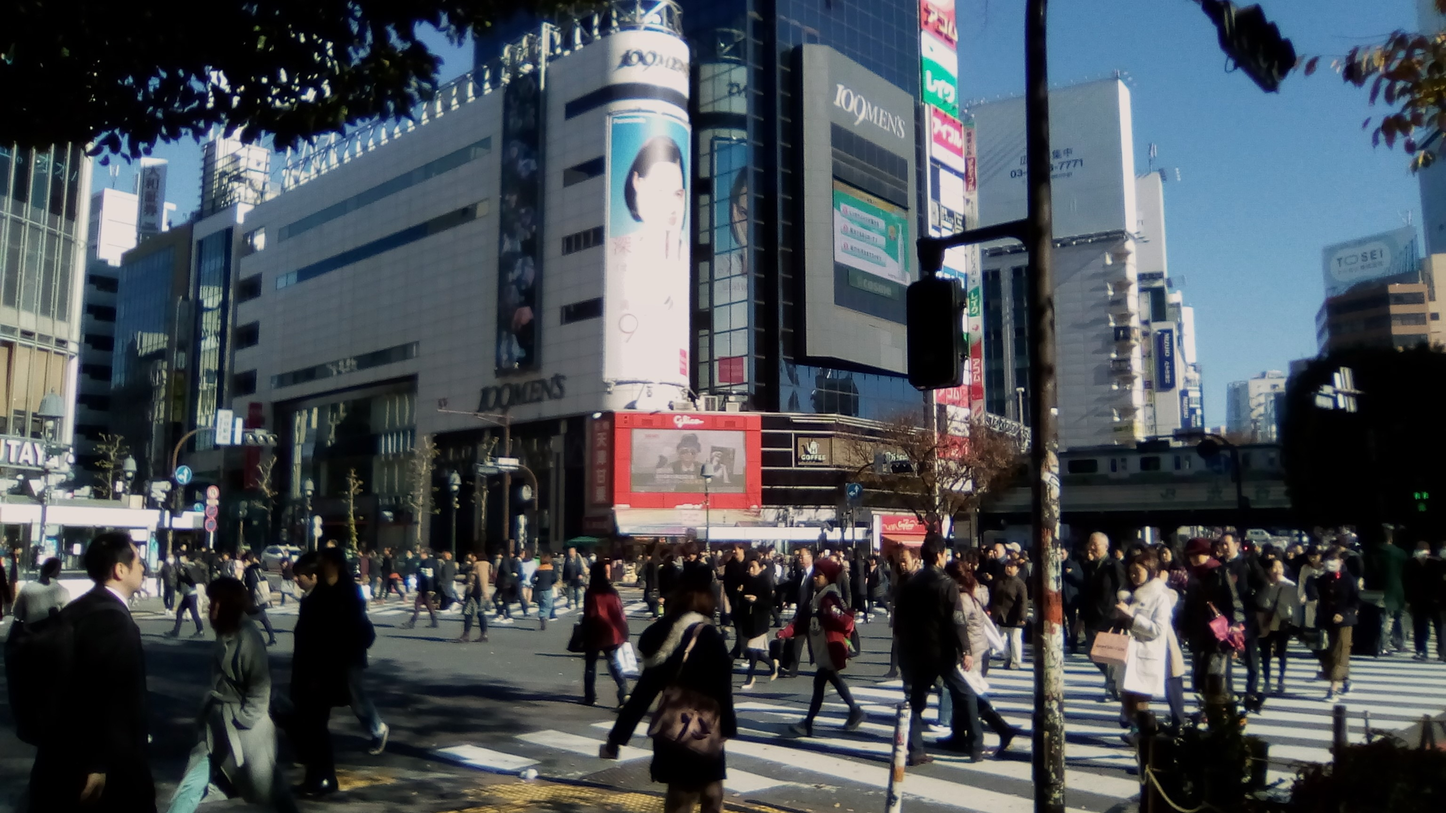
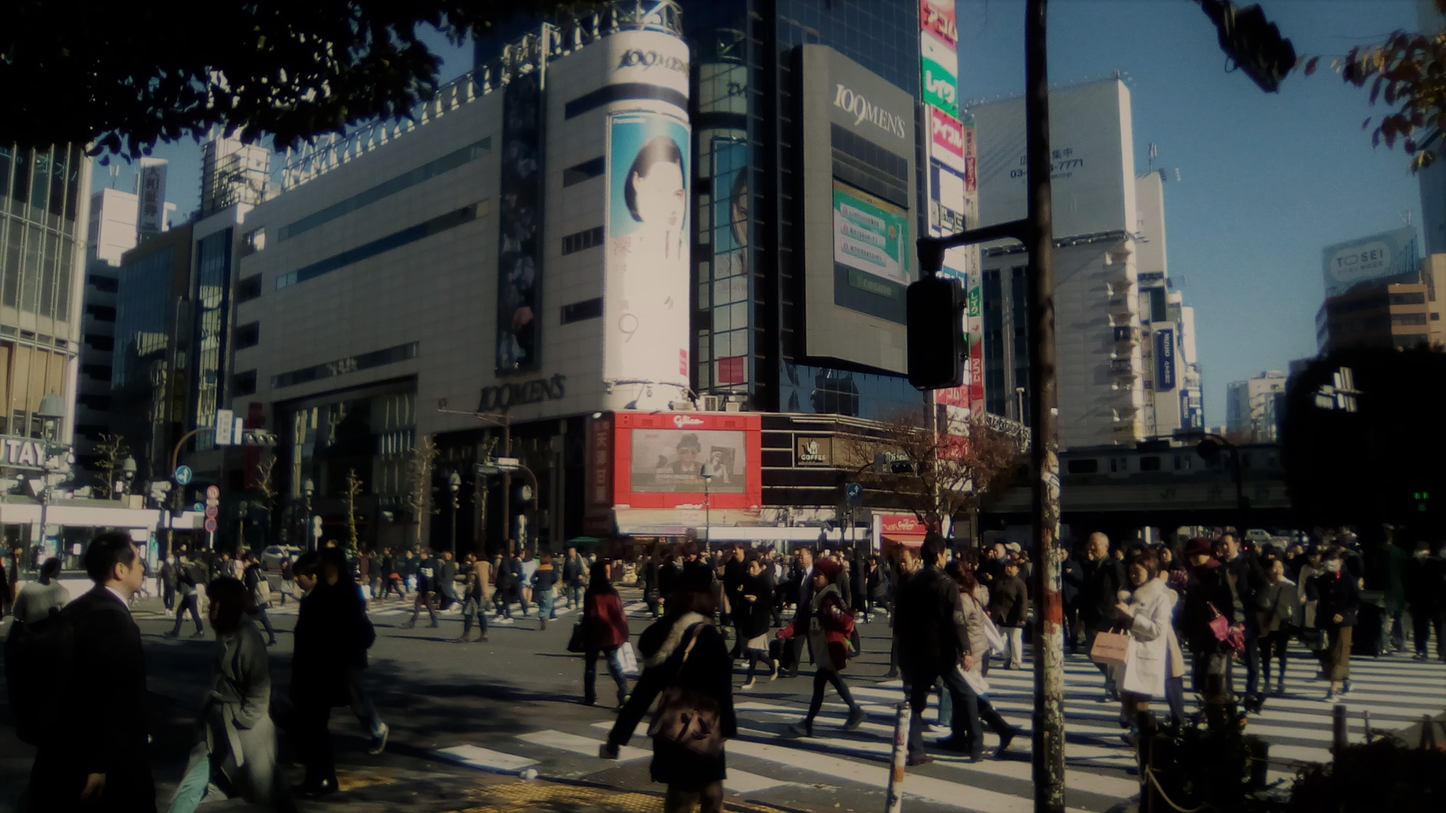
added film strip

diff --git a/src/pages/services.js b/src/pages/services.js
@@ -1,64 +1,73 @@
 import React from "react"
 import { graphql } from "gatsby"
 import { Row, Col } from "reactstrap"
+import AniLink from 'gatsby-plugin-transition-link/AniLink'
 import Layout from "../components/layout"
 import SEO from "../components/seo"
 import Img from "gatsby-image"
 import "./index.css"
 
-const ServicesPage = ({ data }) => (
+const ServicesPage = ({ data }) => {
+  const imgArray = data.allFile.edges
+  console.log("data: ", imgArray)
+  return (
   <div style={{width:`100%`}}>
     <Layout>
-      <h1 className="primary-color text-center">Services</h1>
-      <Row className="no-gutters align-items-center">
-        <Col xs="12" sm="6" md="7" lg="8"className="primary-color pr-sm-2">
-          <h2>Adventure Follows</h2>
-          <h4>$149/hour or $499/day</h4>
-          <p>Do you go on awesome adventures and need a photographer? Connor offers daily and hourly rates to acompany you as a photographer on your next adventure.</p>
-          <ul>
-            <li>Hour by Hour Rates</li>
-            <li>Overnight Trips</li>
-            <li>Ski Follows</li>
-          </ul>
+      <h1 className="primary-color text-center mb-5">Services</h1>
+      <Row className="no-gutters service-container">
+        <Col xs="12" className="pb-2">
+        <h3>Adventure Photography</h3>
         </Col>
-        <Col xs="12" sm="6" md="5" lg="4" className="align-items-center" style={{width:`40%`}}>
-          <Img fluid={data.file.childImageSharp.fluid} style={{}}/>
-        </Col>
+      <Col xs="12" sm="6" md="7" lg="8"className="primary-color pr-sm-2">
+        <strong >Capture Your Next Adventure</strong><br/>
+        <p style={{color:`white`}}> 
+          Are you wanting to capture and share the experience from your next big adventure?
+          Connor is a proffesional photographer who lives for adventure and would love to accompany you.
+          From below sea level to the highest peaks, on skis or on a belay, Connor can be at your side capturing those once in a lifetime
+          moments of triumph.
+        </p>
+      </Col>
+      <Col xs="12" sm="6" md="5" lg="4" className="align-self-center">
+      <ul style={{color:`white`}}>
+          <li style={{color:`white`}}>Day and Overnight Trips</li>
+          <li style={{color:`white`}}>Hourly and Daily Rates</li>
+          <li style={{color:`white`}}>Foreign or Domestic</li>
+          <li style={{color:`white`}}>Marine, Desert, Forest, or Alpine</li>
+          <li style={{color:`white`}}>$99/hour, 8 hour max billing</li>
+        </ul>
+      </Col>
+        
       </Row>
-
-      <div className="line-divider"></div>
-
-      <Row className="no-gutters align-items-center">
-        <Col xs="12" sm="6" md="7" lg="8"className="primary-color pr-sm-2">
-          <h2>Adventure Follows</h2>
-          <h4>$149/hour or $499/day</h4>
-          <p>Do you go on awesome adventures and need a photographer? Connor offers daily and hourly rates to acompany you as a photographer on your next adventure.</p>
-          <ul>
-            <li>Hour by Hour Rates</li>
-            <li>Overnight Trips</li>
-            <li>Ski Follows</li>
-          </ul>
-        </Col>
-        <Col xs="12" sm="6" md="5" lg="4" className="align-items-center" style={{width:`40%`}}>
-          <Img fluid={data.file.childImageSharp.fluid} style={{}}/>
-        </Col>
+      <div className="film-strip">
+            {data.allFile.edges.map((image, index) => {
+              return (
+                <div className="strip-photo">
+                  <Img sizes={image.node.childImageSharp.sizes}/>
+                  </div>
+              )
+            })}
+        </div>
+      <Row className="justify-content-center">
+        <AniLink fade to="/contact/">
+          <button className="contact-button">Contact Connor</button>
+        </AniLink>
       </Row>
-
-      <div className="line-divider"></div>
-      
-      <button>Contact Us</button>
     </Layout>
   </div>
-)
+)}
 
 export default ServicesPage
 
 export const query = graphql`
 query {
-  file(relativePath: { eq: "sun.jpg" }) {
-    childImageSharp {
-      fluid(maxWidth: 2000, quality: 100) {
-        ...GatsbyImageSharpFluid
+  allFile( filter: { relativePath: { regex: "/adventure/.*.jpg/" }}) {
+    edges {
+      node {
+        childImageSharp {
+          sizes(maxWidth: 320) {
+            ...GatsbyImageSharpSizes
+          }
+        }
       }
     }
   }

diff --git a/src/pages/index.css b/src/pages/index.css
@@ -1,11 +1,6 @@
-/* .tl-edges {
-    overflow-x: inherit;
-} */
-
 * {
     color: #e9dbbd;
 }
-
 
 .primary-color {
     color: #e9dbbd;
@@ -15,20 +10,10 @@
     text-align: center;
 }
 
-.row {
-    width: 100%;
-    display: flex;
-    padding: 20px;
-}
-
-.col {
-    padding: 5px;
-}
-
 .line-divider {
     width: 80%;
     border-bottom: 1px solid #e9dbbd;
-    margin: 0 auto
+    margin: 10px auto
 }
 
 input {
@@ -51,4 +36,63 @@ input {
 
 .landscape {
     width: 100%;
+}
+
+.service-container {
+    padding: 25px;
+}
+
+.contact-button {
+    background: none;
+    padding: .5rem 1rem;
+    font-size: 1.25rem;
+    line-height: 1.5;
+    border-radius: .3rem;
+    border: 1px solid #e9dbbd;
+    margin: 25px;
+}
+
+.contact-button:hover {
+    background: #e9dbbd;
+    color: black;
+}
+
+.film-strip {
+    overflow: auto;
+    white-space: nowrap;
+    margin: 25px;
+}
+
+.strip-photo {
+    width: 60%;
+    display: inline-block;
+}
+
+@media screen and (min-width: 576px){
+    .strip-photo {
+        width: 40%;
+    }
+}
+
+@media screen and (min-width: 768px){
+    .service-container {
+        margin: 40px;
+    }
+    .film-strip {
+        margin: 40px;
+    }
+
+    .contact-button {
+        margin: 40px;
+    }
+
+    .strip-photo {
+        width: 35%;
+    }
+}
+
+@media screen and (min-width: 992px){
+    .strip-photo {
+        width: 30%;
+    }
 }

diff --git a/src/components/lightbox.js b/src/components/lightbox.js
@@ -60,7 +60,7 @@ class Lightbox extends Component {
   }
 
   render() {
-    const { images } = this.props
+    const { images, name } = this.props
     console.log("Images: ", images)
     const { showLightbox, selectedImage } = this.state
     return (
@@ -69,9 +69,9 @@ class Lightbox extends Component {
           {images.map((img, i) => {
             return (
               <Col xs="6" lg="4" key={img.image.childImageSharp.fluid.src}>
-                <div href={img.image.childImageSharp.fluid.src} alt="" >
-                  <Img fluid={img.image.childImageSharp.fluid} onClick={e => this.handleClick(e, i)}/>
-                </div>
+                <a href={img.image.childImageSharp.fluid.src} alt={name + `image`} onClick={e => this.handleClick(e, i)}>
+                  <Img fluid={img.image.childImageSharp.fluid}/>
+                </a>
               </Col>
             )
           })}

diff --git a/src/components/lightbox.css b/src/components/lightbox.css
@@ -136,53 +136,3 @@
     }
 }
 
-
-/* @media screen and (min-width: 768px) {
-    .portrait {
-        width:55%;
-    }
-
-    .landscape-img {
-        width: 85%;
-    }
-} */
-
-/* @media screen and (min-width: 824px) {
-    .portrait {
-        width:50%;
-    }
-
-    .landscape-img {
-        width: 85%;
-    }
-}
-
-@media screen and (min-width: 992px) {
-    .portrait {
-        width:45%;
-    }
-
-    .landscape-img {
-        width: 85%;
-    }
-} */
-/* @media screen and (orientation: landscape) {
-    .landscape-img {
-        width: 70%;
-    }
-
-    .portrait {
-        width:35%;
-    }
-    
-} */
-/* 
-@media screen and (orientation: landscape) and (min-width: 812px) {
-    .landscape-img {
-        width: 55%;
-    }
-
-    .portrait {
-        width:30%;
-    }
-} */

diff --git a/src/components/layout.js b/src/components/layout.js
@@ -1,7 +1,6 @@
 import React, { useState } from 'react';
 import PropTypes from "prop-types"
-import { Link } from "gatsby"
-import {Row, Col } from "reactstrap"
+import { Row } from "reactstrap"
 import AniLink from 'gatsby-plugin-transition-link/AniLink'
 import logo from "../images/logo.png"
 import "./header.css"

diff --git a/src/templates/collection.js b/src/templates/collection.js
@@ -8,7 +8,7 @@ export default ({ data }) => {
   const images = data.markdownRemark.frontmatter.images
   return (
     <Layout>
-      <LightBox images={images}/>
+      <LightBox images={images} name={data.markdownRemark.frontmatter.title}/>
     </Layout>
   )
 }
